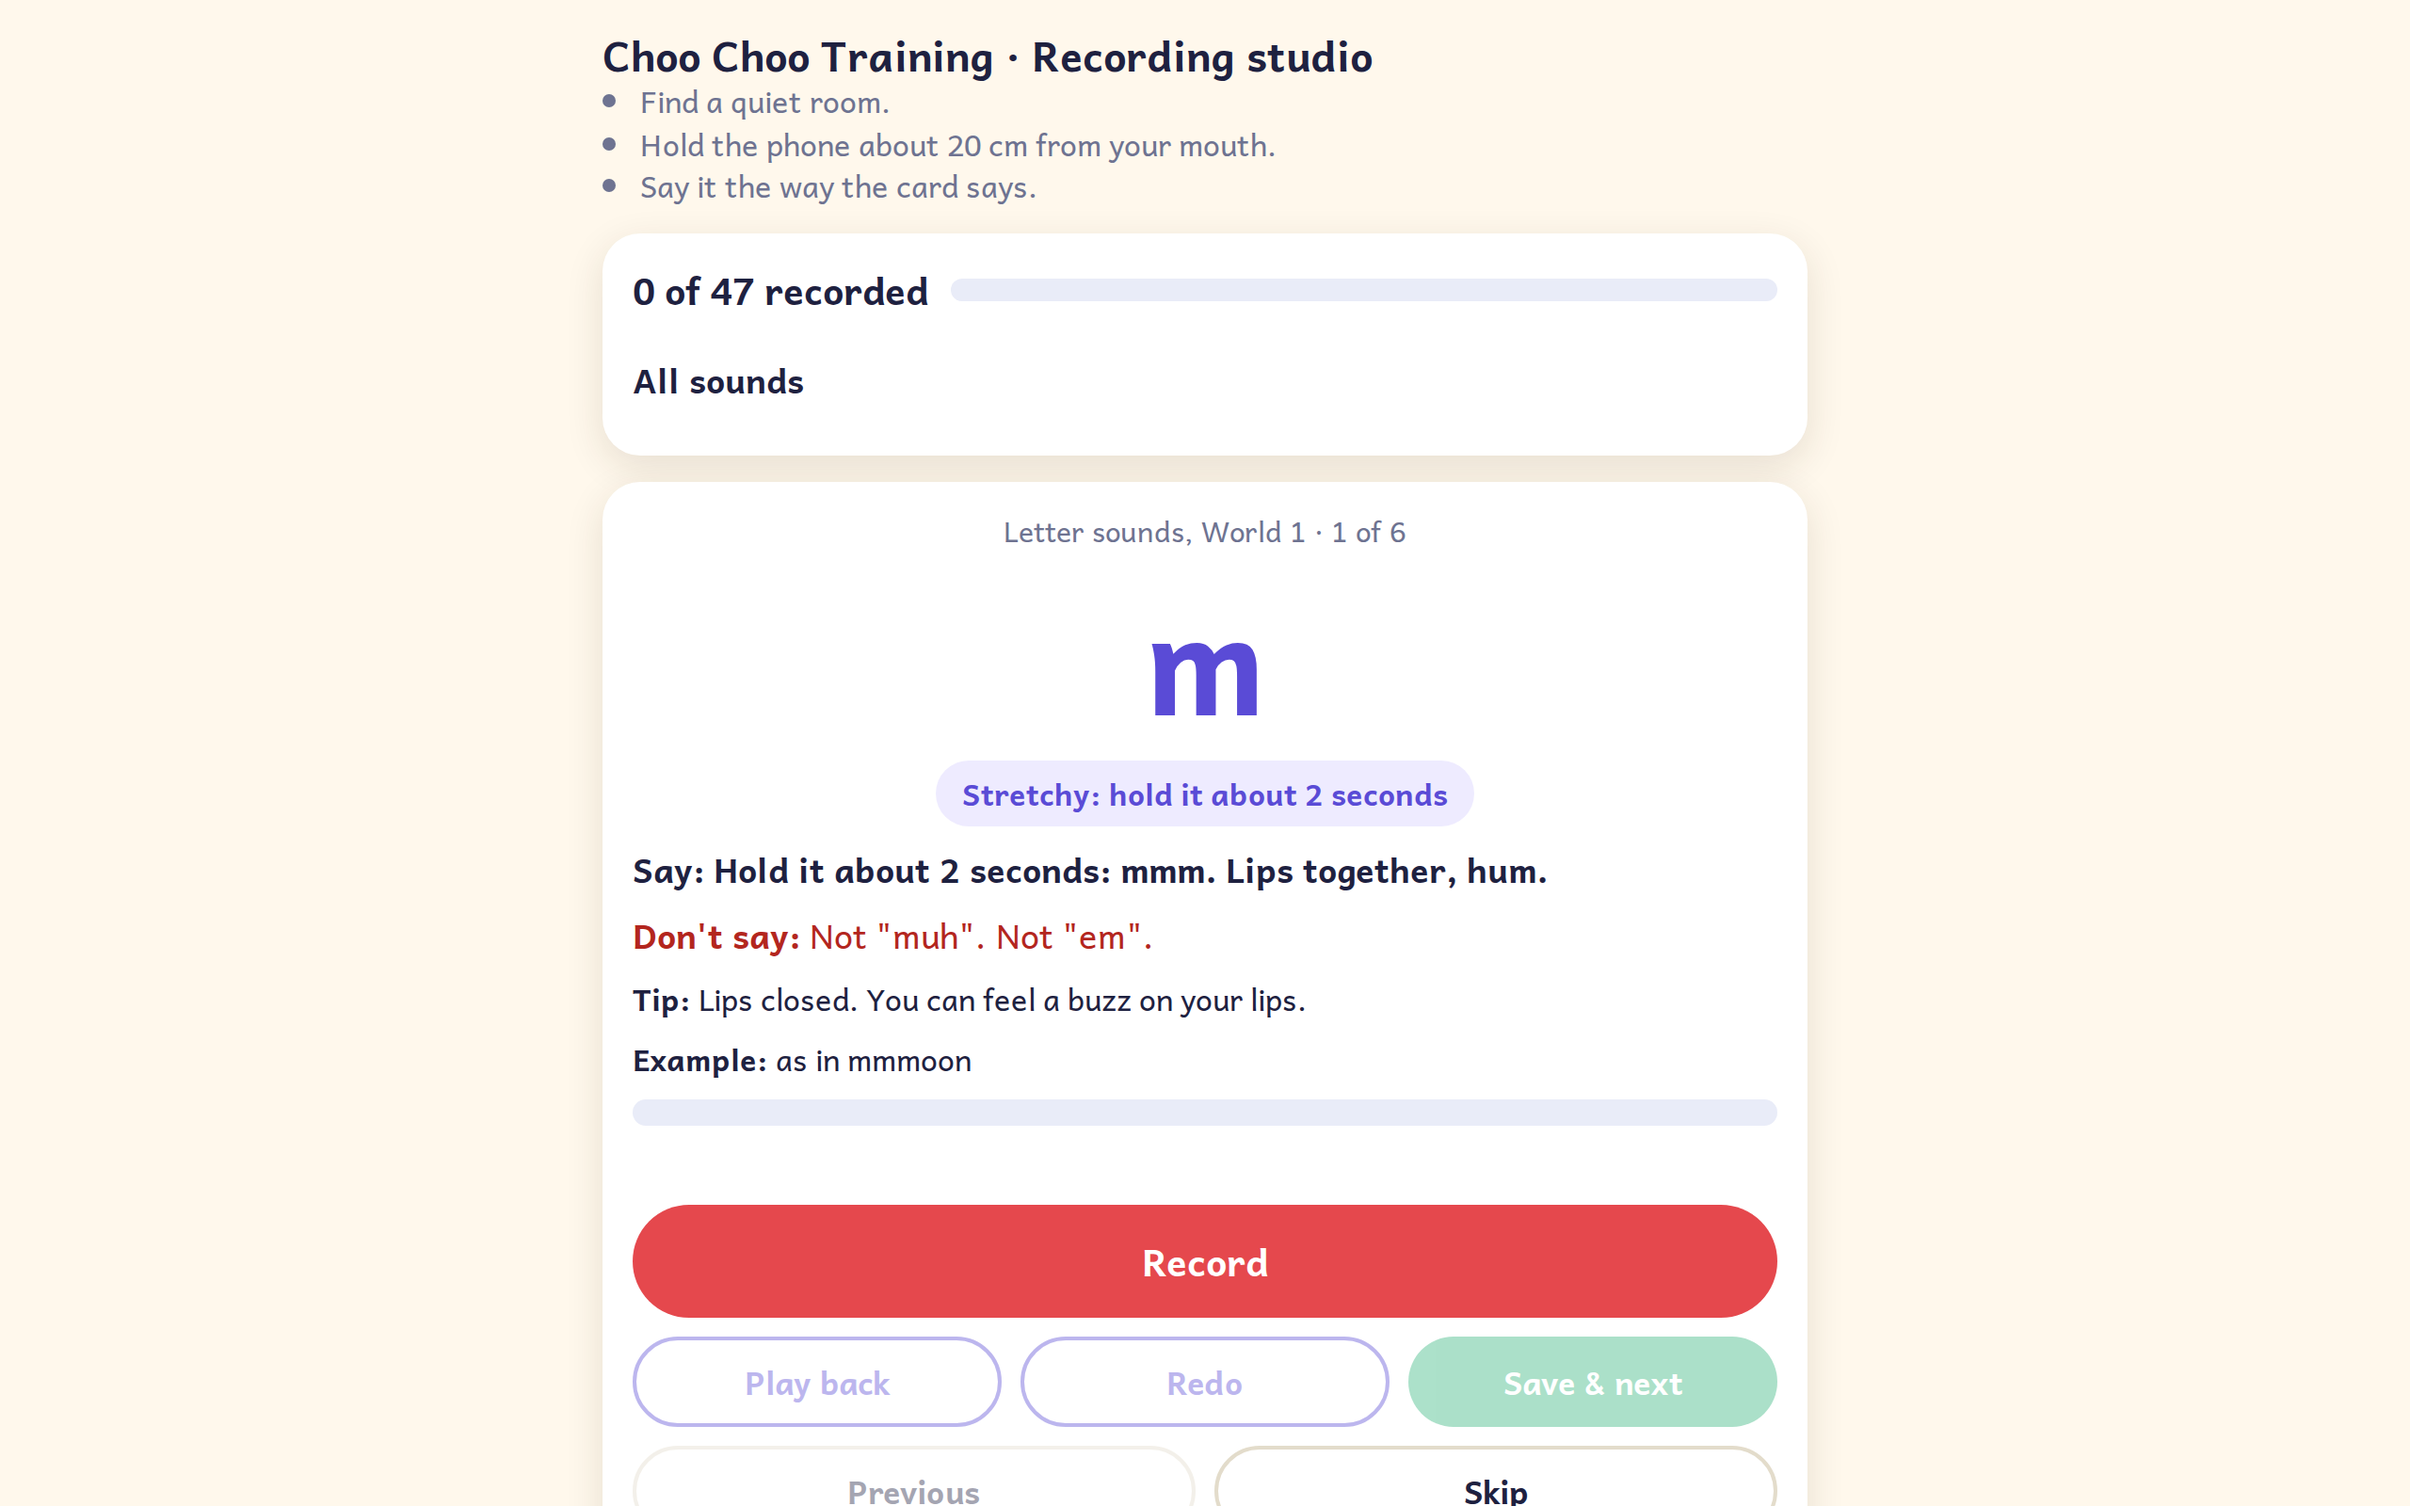
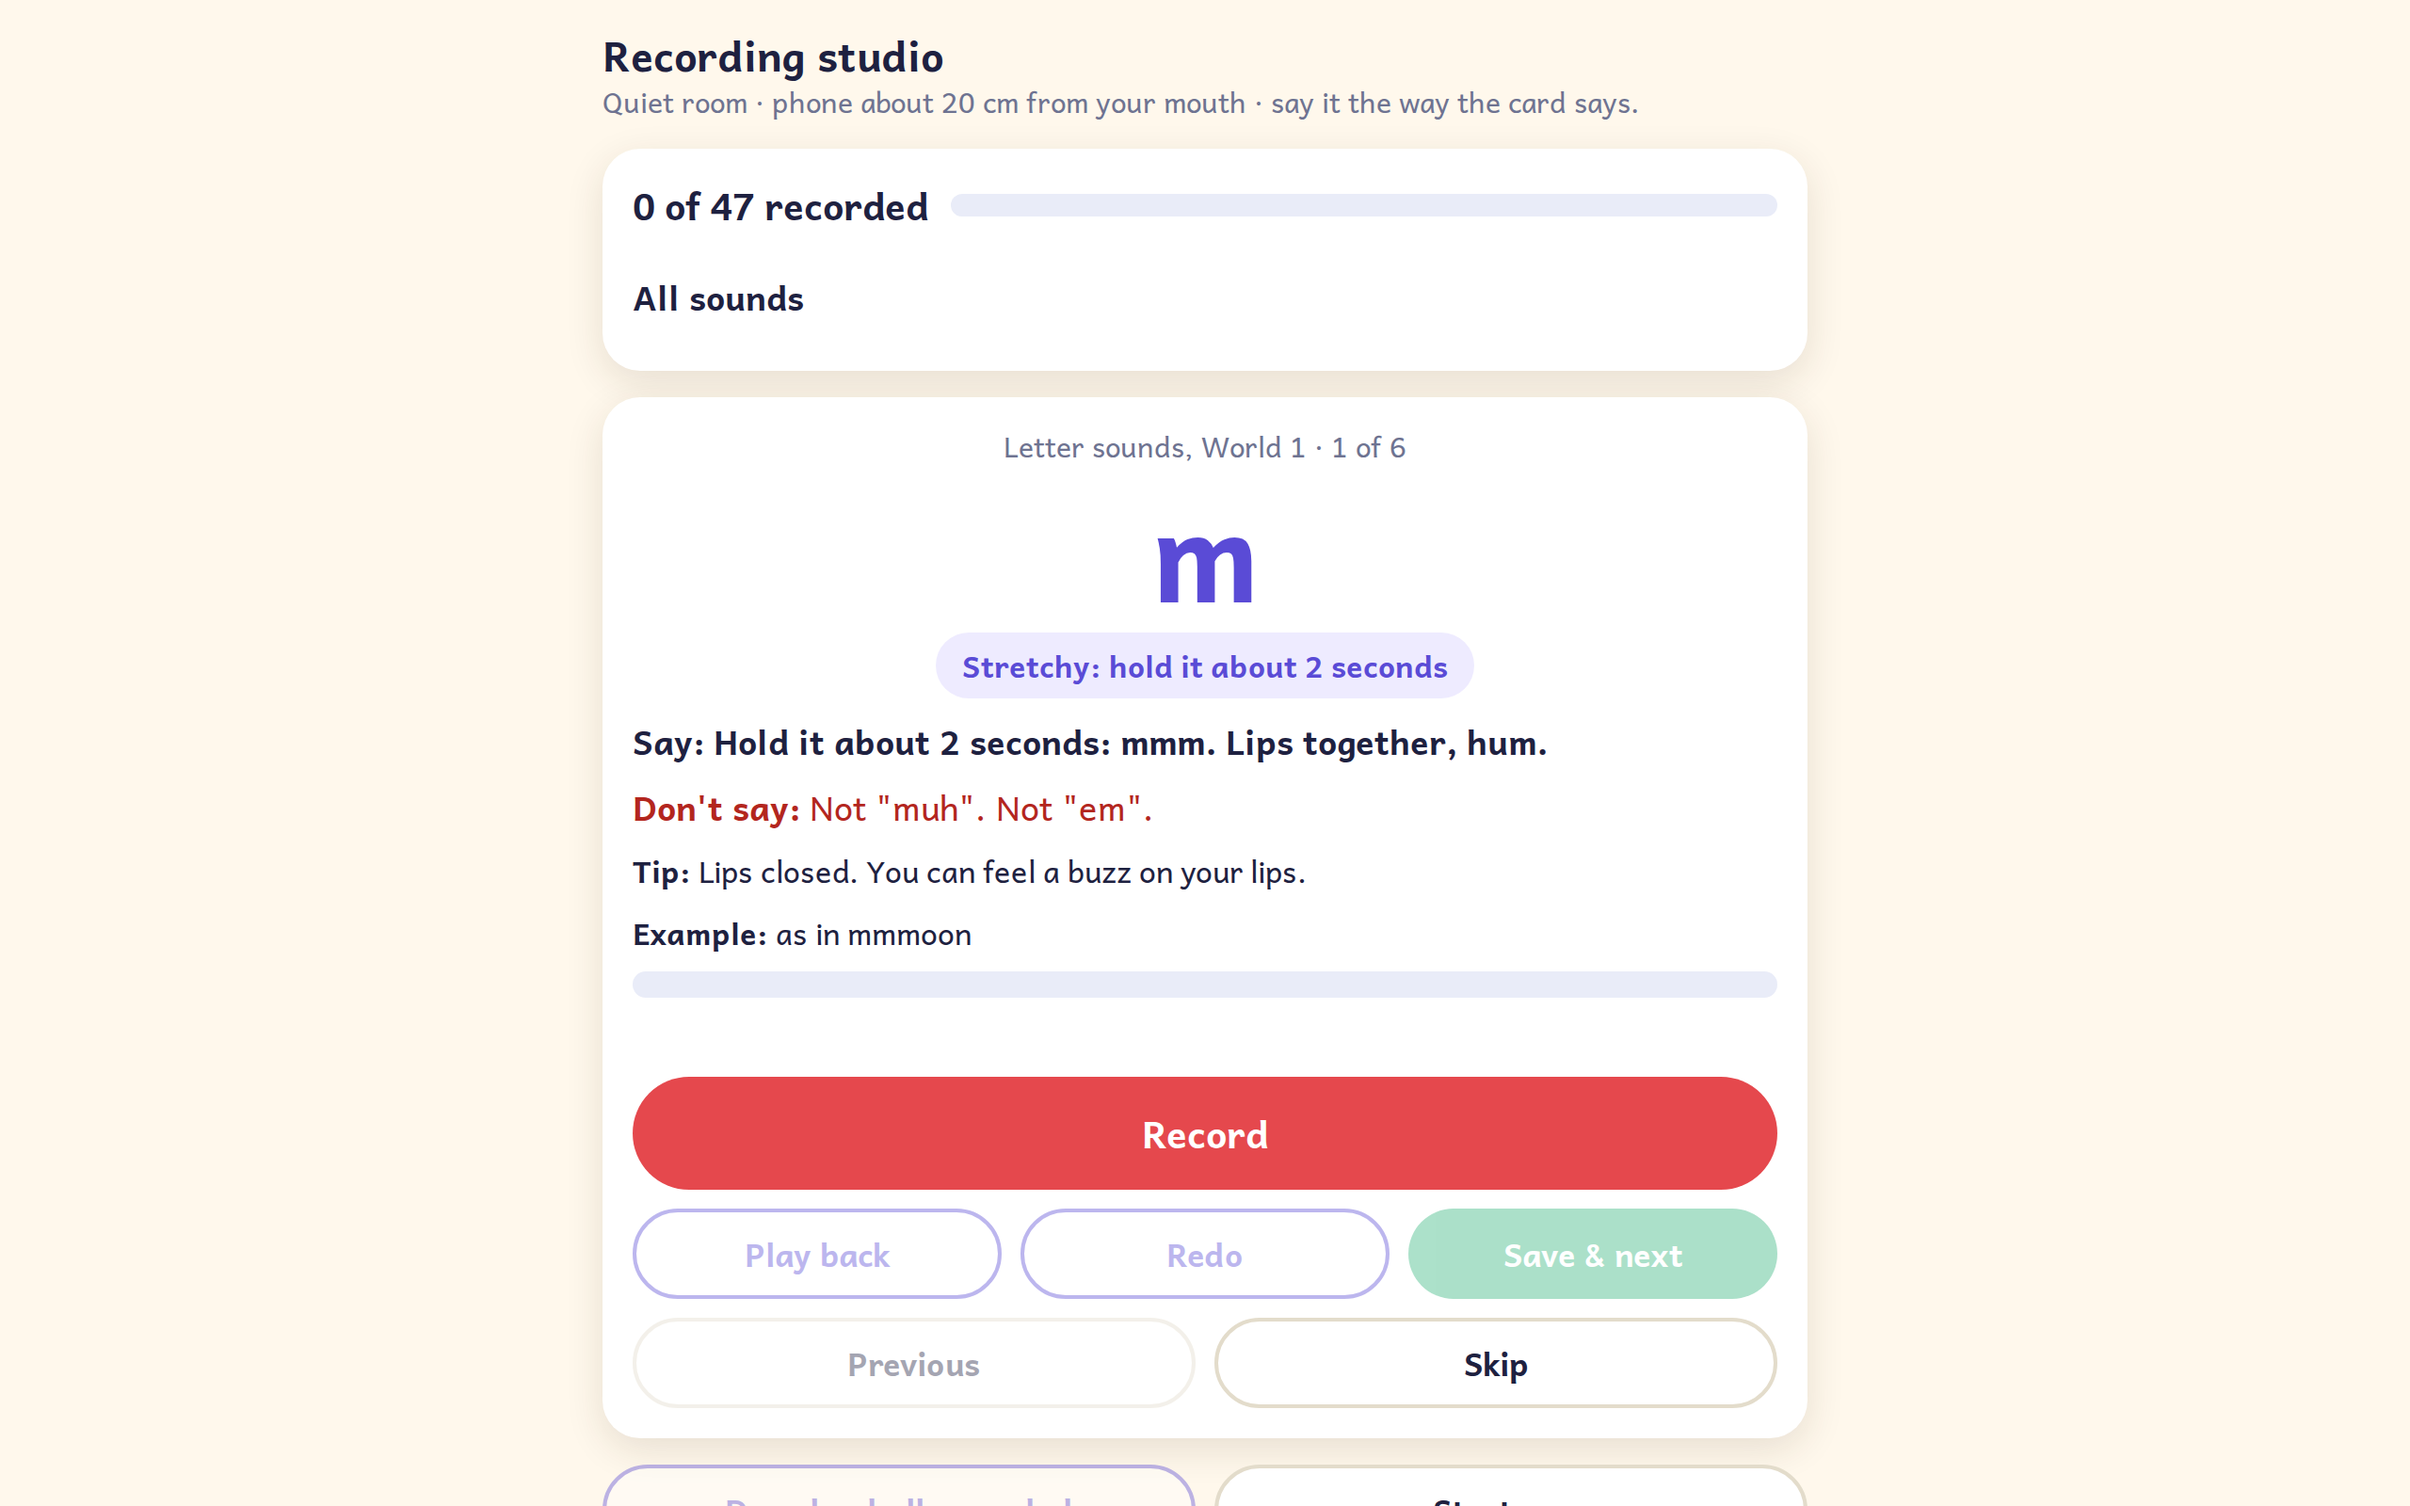
Studio: short vowels written so they can't be misread (ih, ah, eh, uh); Record fits on a phone screen
Claude-Session: https://claude.ai/code/session_016cKvBQBv9Ceas6c2YjYcfF

Changed region(s): [[0.25, 0.1875, 0.75, 1.0], [0.25, 0.0312, 0.6875, 0.1562]]

diff --git a/tools/studio-list.js b/tools/studio-list.js
@@ -15,26 +15,26 @@ export const GROUPS = [
 
 const A = [
   sound('m', 'm', 'Hold it about 2 seconds: mmm. Lips together, hum.', 'Not "muh". Not "em".', 'Lips closed. You can feel a buzz on your lips.', 'as in mmmoon', 'stretchy'),
-  sound('a', 'a', 'The sound at the start of "apple": aaa. Mouth open wide, held about 2 seconds.', 'Not "ay" (the letter name). Not "uh".', 'Open wide, like the dentist is looking at your teeth.', 'as in aaapple', 'stretchy'),
+  sound('a', 'a', 'The sound at the start of "apple": aaa. Mouth open wide, held about 2 seconds.', 'Not "ay" (the letter name). Not "uh".', 'Open wide, like the dentist is looking at your teeth.', 'as in "apple" and "at"', 'stretchy'),
   sound('s', 's', 'Hold it about 2 seconds: sss. Push air out like a snake.', 'Not "suh". Not "ess".', 'Teeth close together. No buzz in your throat.', 'as in sssun', 'stretchy'),
-  sound('i', 'i', 'The sound at the start of "it": iii. Held about 2 seconds, mouth only a little open.', 'Not "eye" (the letter name). Not "ee".', 'Smile a tiny bit and keep your tongue low.', 'as in iiit', 'stretchy'),
+  sound('i', 'i', 'The sound at the start of "it" and "igloo": ih, held about 2 seconds, mouth only a little open.', 'Not "eye" (the letter name). Not "ee".', 'Smile a tiny bit and keep your tongue low.', 'as in "it" and "igloo"', 'stretchy'),
   sound('t', 't', 'A quick tap of the tongue: t. Short and clipped.', 'Not "tuh". Not "tee".', 'Tongue taps the bumpy spot behind your top teeth. Nothing in your throat. It is the quiet partner of d.', 'as in the end of "cat"', 'bouncy'),
   sound('p', 'p', 'A quick puff of air: p. Short and clipped.', 'Not "puh". Not "pee".', 'Hold your hand near your lips and feel the puff. No buzz in your throat. It is the quiet partner of b.', 'as in the start of "pig"', 'bouncy')
 ];
 
 const B = [
   sound('f', 'f', 'Hold it about 2 seconds: fff. Top teeth on your bottom lip, blow.', 'Not "fuh". Not "eff".', 'Quiet partner of v: touch your throat, fff has no buzz.', 'as in fffish', 'stretchy'),
-  sound('o', 'o', 'The sound in "mop": ooo. Mouth round and open, held about 2 seconds.', 'Not "oh" (the letter name). Not "aw".', 'Drop your jaw, like saying "ah" with a rounder mouth.', 'as in oooctopus', 'stretchy'),
+  sound('o', 'o', 'The sound in "mop" and "octopus": ah, with a round open mouth, held about 2 seconds.', 'Not "oh" (the letter name). Not "oo" as in moon.', 'Drop your jaw, like saying "ah" with a rounder mouth.', 'as in "octopus" and "mop"', 'stretchy'),
   sound('n', 'n', 'Hold it about 2 seconds: nnn. Hum through your nose.', 'Not "nuh". Not "en".', 'Tongue touches behind your top teeth. Pinch your nose and the sound stops.', 'as in nnnest', 'stretchy'),
   sound('d', 'd', 'A quick voiced pop: d. Short and clipped, no uh.', 'Not "duh". Not "dee".', 'Same mouth as t, but your voice buzzes. Touch your throat: d buzzes, t does not.', 'as in the start of "dog"', 'bouncy'),
   sound('k', 'c k', 'A quick pop from the back of your throat: k. This one sound is spelled c and k.', 'Not "kuh". Not "see" or "kay".', 'Quiet partner of g: touch your throat, k has no buzz.', 'as in the start of "cat" and "kid"', 'bouncy'),
   sound('h', 'h', 'Just a breath: h. Like fogging a mirror. Very short.', 'Not "huh". Not "aitch".', 'Put your hand in front of your mouth and feel warm air. There is no voice at all.', 'as in the start of "hat"', 'bouncy'),
-  sound('u', 'u', 'The sound in "fun": uuu. Relaxed mouth, held about 2 seconds.', 'Not "you" (the letter name). Not "oo".', 'Let your jaw go loose and lazy, like a little grunt.', 'as in uuumbrella', 'stretchy'),
+  sound('u', 'u', 'The sound in "fun" and "up": uh, with a relaxed mouth, held about 2 seconds.', 'Not "you" (the letter name). Not "oo".', 'Let your jaw go loose and lazy, like a little grunt.', 'as in "up" and "umbrella"', 'stretchy'),
   sound('g', 'g', 'A quick voiced pop: g, the hard sound. Short and clipped, no uh.', 'Not "guh". Not "gee". Not the j sound.', 'Same mouth as k, but your voice buzzes. Touch your throat: g buzzes, k does not.', 'as in the start of "gum"', 'bouncy'),
   sound('l', 'l', 'Hold it about 2 seconds: lll. Tongue tip up behind your top teeth.', 'Not "luh". Not "el".', 'Smile with your tongue tip up and let the sound flow out the sides.', 'as in llllip', 'stretchy'),
   sound('r', 'r', 'Hold it about 2 seconds: rrr. Lips a bit round, tongue pulled back.', 'Not "ruh". Not "ar".', 'Growl softly like a little lion. Your tongue does not touch the roof of your mouth.', 'as in rrrug', 'stretchy'),
   sound('b', 'b', 'A quick voiced pop: b. Short and clipped, no uh.', 'Not "buh". Not "bee".', 'Same mouth as p, but your voice buzzes. Touch your throat: b buzzes, p does not.', 'as in the start of "bat"', 'bouncy'),
-  sound('e', 'e', 'The sound in "bed": eee. Mouth halfway open, held about 2 seconds.', 'Not "ee" (the letter name). Not "ay".', 'Keep it flat, like a sheep saying "eh".', 'as in eeegg', 'stretchy'),
+  sound('e', 'e', 'The sound in "bed" and "egg": eh, mouth halfway open, held about 2 seconds.', 'Not "ee" (the letter name). Not "ay".', 'Keep it flat, like a sheep saying "eh".', 'as in "egg" and "bed"', 'stretchy'),
   sound('j', 'j', 'A quick voiced pop: j. Short and clipped, no uh.', 'Not "juh". Not "jay".', 'Lips a little round. Your voice buzzes: touch your throat.', 'as in the start of "jam"', 'bouncy'),
   sound('w', 'w', 'Lips round, then open: ww, as in "wet". Hold it only a moment.', 'Not "double-u". Not "wuh". Not "d".', 'Make a small circle with your lips, like blowing out a candle, then let go.', 'as in wwwet', 'stretchy'),
   sound('v', 'v', 'Hold it about 2 seconds: vvv. Top teeth on your bottom lip, buzz.', 'Not "vuh". Not "vee".', 'Buzzing partner of f: touch your throat and feel it buzz. Your lip tickles.', 'as in vvvan', 'stretchy'),

diff --git a/tools/studio.html b/tools/studio.html
@@ -13,7 +13,7 @@
   body { margin: 0; font: 18px/1.4 Andika, system-ui, Roboto, sans-serif; background: var(--cream); color: var(--ink); padding: 16px 16px 60px; }
   main { max-width: 640px; margin: 0 auto; display: grid; gap: 14px; }
   h1 { margin: 0; font-size: 22px; line-height: 1.2; }
-  .howto { margin: 0; padding-left: 20px; color: var(--muted); font-size: 16px; }
+  .howto { margin: 2px 0 0; color: var(--muted); font-size: 15px; }
   .card { background: #fff; border-radius: 20px; padding: 16px; box-shadow: 0 6px 20px rgba(60,40,20,.12); display: grid; gap: 10px; min-width: 0; }
   .progress { display: flex; align-items: center; gap: 12px; flex-wrap: wrap; }
   .progress strong { font-size: 20px; }
@@ -26,7 +26,7 @@
   .chip.cur { border-color: var(--violet); background: #EEEBFF; }
   .dot { width: 12px; height: 12px; border-radius: 50%; border: 2px solid #B8BCD3; background: transparent; flex: none; }
   .chip.done .dot { background: var(--green); border-color: var(--green); }
-  .show { font-size: 76px; line-height: 1.1; font-weight: 700; text-align: center; color: var(--violet); margin: 4px 0; overflow-wrap: anywhere; }
+  .show { font-size: 68px; line-height: 1; font-weight: 700; text-align: center; color: var(--violet); margin: 0; overflow-wrap: anywhere; }
   .show.long { font-size: 56px; }
   .where { text-align: center; color: var(--muted); font-size: 15px; margin: 0; }
   .badge { justify-self: center; background: #EEEBFF; color: var(--violet); border-radius: 999px; padding: 6px 14px; font-weight: 700; font-size: 16px; text-align: center; }
@@ -56,12 +56,8 @@
 <body>
 <main>
   <header>
-    <h1>Choo Choo Training · Recording studio</h1>
-    <ul class="howto">
-      <li>Find a quiet room.</li>
-      <li>Hold the phone about 20 cm from your mouth.</li>
-      <li>Say it the way the card says.</li>
-    </ul>
+    <h1>Recording studio</h1>
+    <p class="howto">Quiet room · phone about 20 cm from your mouth · say it the way the card says.</p>
   </header>
 
   <section class="card" aria-label="Progress">
